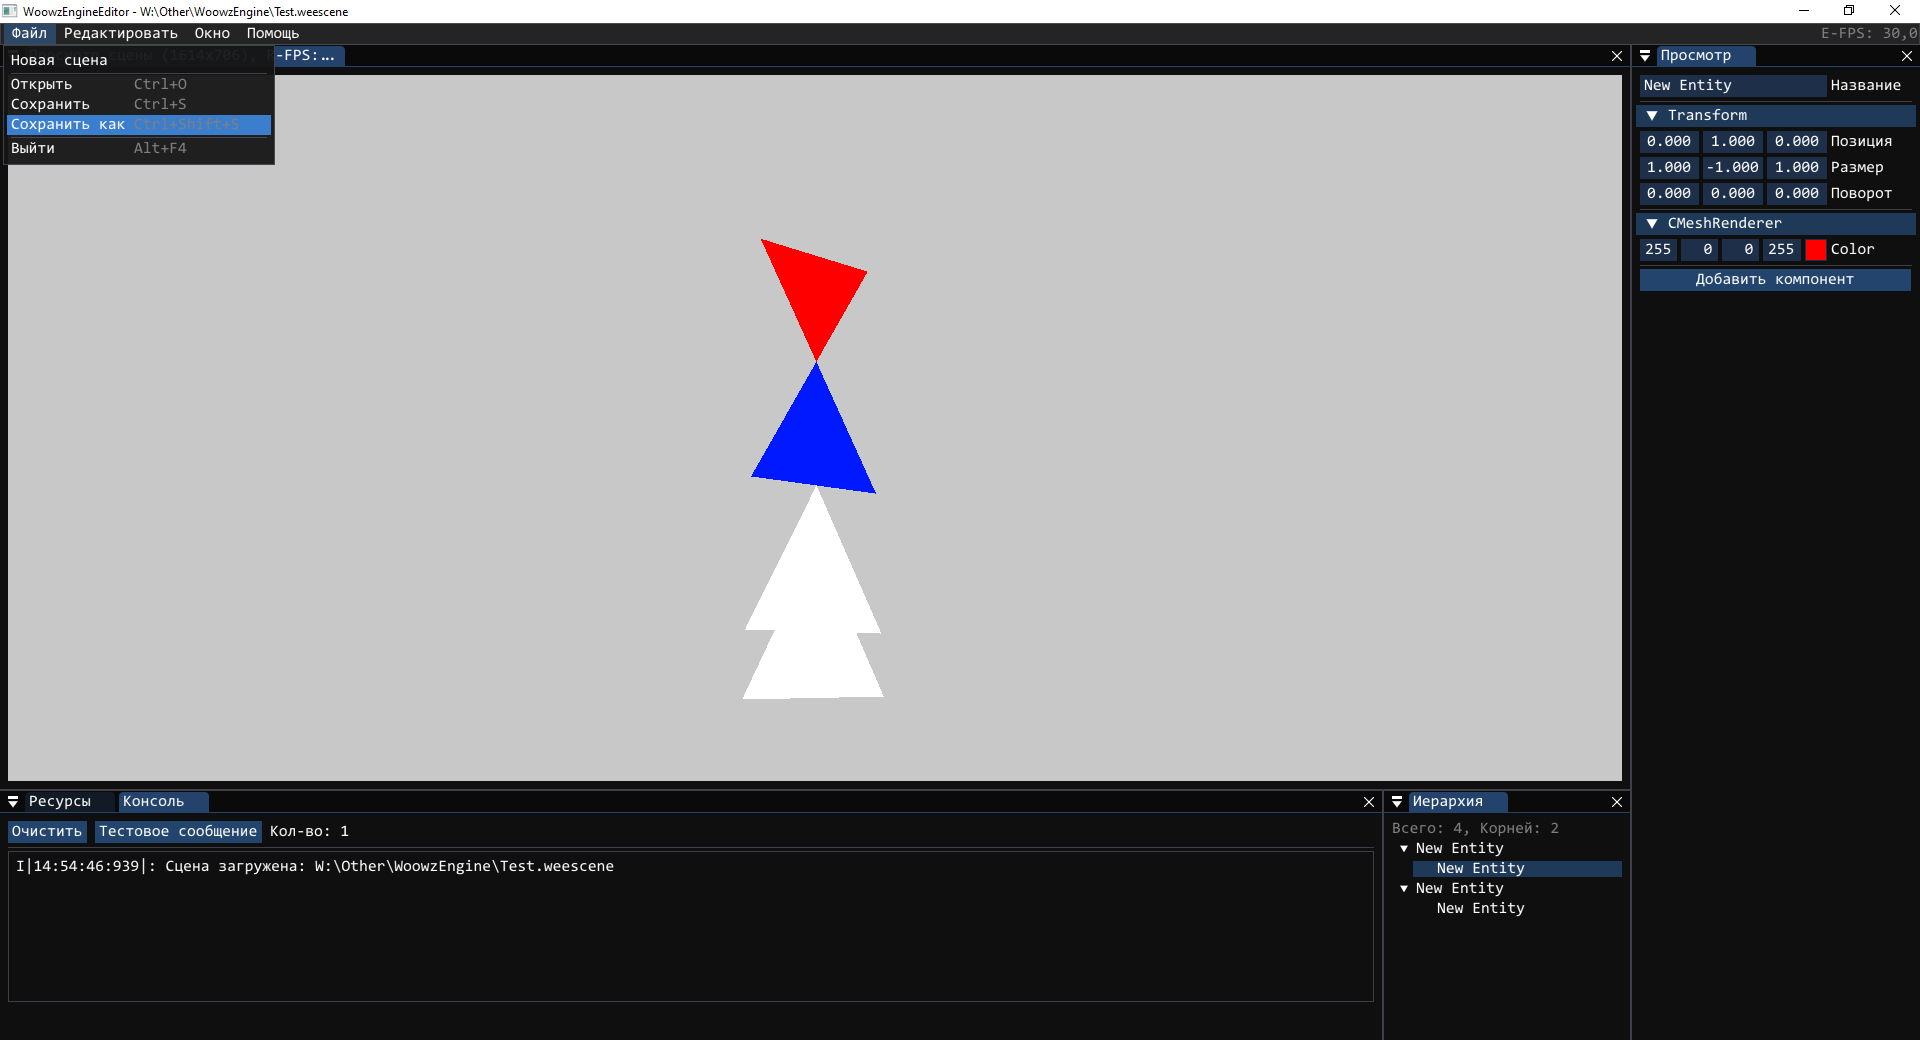
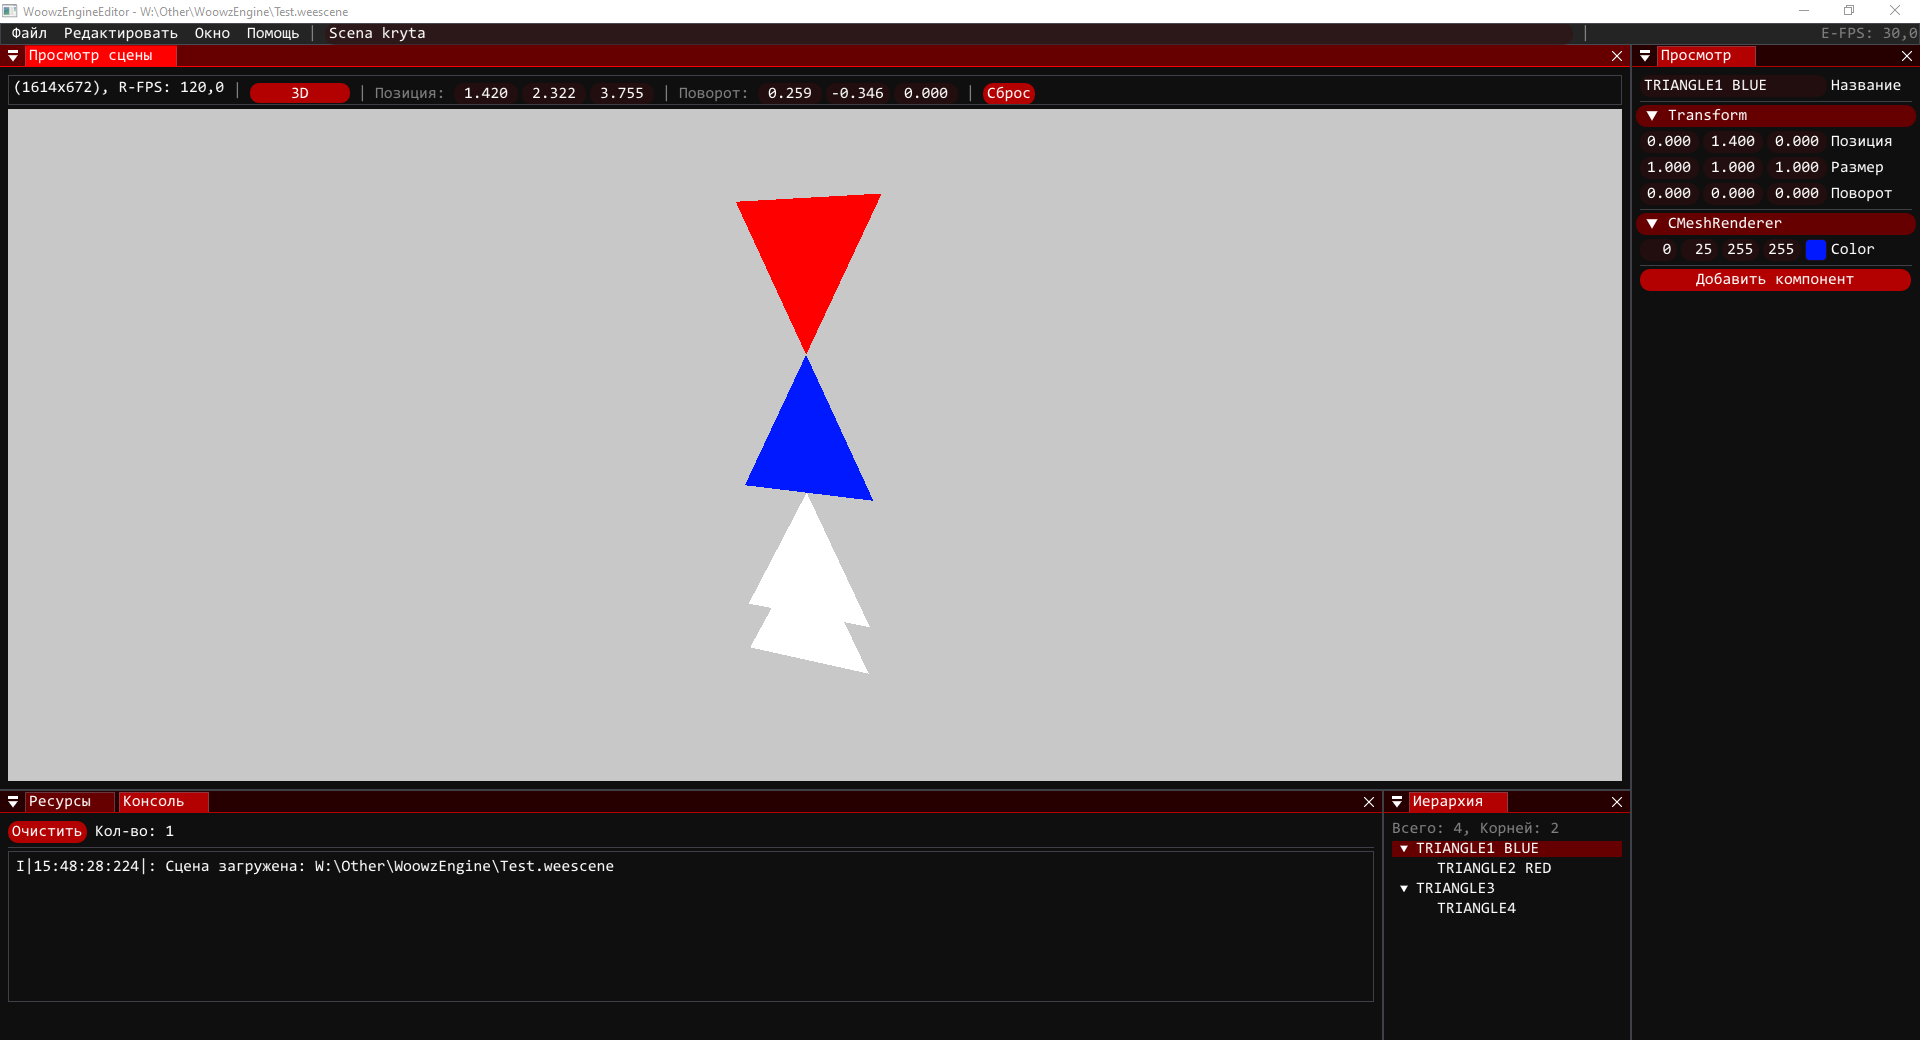
ТИПО крутые стили

diff --git a/WoowzEngine/WoowzEngineEditor/WEE/Interface.cs b/WoowzEngine/WoowzEngineEditor/WEE/Interface.cs
@@ -25,6 +25,56 @@ public static class Interface{
 
         ImGUI.IO.ConfigWindowsMoveFromTitleBarOnly = true;
         
+        ImGuiStylePtr Style = ImGui.GetStyle();
+        RangeAccessor<Vector4> Colors = Style.Colors;
+
+        Vector4 mainRed = new Vector4(0.70f, 0.00f, 0.00f, 1.00f);
+        Vector4 hoverRed = new Vector4(0.85f, 0.10f, 0.10f, 1.00f);
+        Vector4 activeRed = new Vector4(1.00f, 0.00f, 0.00f, 1.00f);
+        Vector4 darkRed = new Vector4(0.40f, 0.00f, 0.00f, 1.00f);
+
+        Colors[(int)ImGuiCol.TitleBg] = new Vector4(0.15f, 0.00f, 0.00f, 1.00f);
+        Colors[(int)ImGuiCol.TitleBgActive] = darkRed;
+        Colors[(int)ImGuiCol.TitleBgCollapsed] = new Vector4(0.00f, 0.00f, 0.00f, 0.51f);
+
+        Colors[(int)ImGuiCol.Button] = mainRed;
+        Colors[(int)ImGuiCol.ButtonHovered] = hoverRed;
+        Colors[(int)ImGuiCol.ButtonActive] = activeRed;
+
+        Colors[(int)ImGuiCol.FrameBg] = new Vector4(0.20f, 0.05f, 0.05f, 0.54f);
+        Colors[(int)ImGuiCol.FrameBgHovered] = new Vector4(0.40f, 0.10f, 0.10f, 0.40f);
+        Colors[(int)ImGuiCol.FrameBgActive] = new Vector4(0.50f, 0.10f, 0.10f, 0.67f);
+
+        Colors[(int)ImGuiCol.Tab] = darkRed;
+        Colors[(int)ImGuiCol.TabHovered] = hoverRed;
+        Colors[(int)ImGuiCol.TabSelected] = activeRed;
+        Colors[(int)ImGuiCol.TabSelectedOverline] = activeRed;
+        Colors[(int)ImGuiCol.TabDimmed] = darkRed;
+        Colors[(int)ImGuiCol.TabDimmedSelected] = mainRed;
+
+        Colors[(int)ImGuiCol.Header] = darkRed;
+        Colors[(int)ImGuiCol.HeaderHovered] = mainRed;
+        Colors[(int)ImGuiCol.HeaderActive] = hoverRed;
+
+        Colors[(int)ImGuiCol.CheckMark] = activeRed;
+        Colors[(int)ImGuiCol.SliderGrab] = mainRed;
+        Colors[(int)ImGuiCol.SliderGrabActive] = hoverRed;
+        Colors[(int)ImGuiCol.SeparatorHovered] = hoverRed;
+        Colors[(int)ImGuiCol.SeparatorActive] = activeRed;
+        Colors[(int)ImGuiCol.ResizeGrip] = darkRed;
+        Colors[(int)ImGuiCol.ResizeGripHovered] = mainRed;
+        Colors[(int)ImGuiCol.ResizeGripActive] = activeRed;
+        Colors[(int)ImGuiCol.DockingPreview] = mainRed;
+        Colors[(int)ImGuiCol.TextSelectedBg] = new Vector4(0.90f, 0.20f, 0.20f, 0.35f);
+
+        Style.WindowRounding = 0;
+        Style.FrameRounding = 12;
+        Style.PopupRounding = 0;
+        Style.GrabRounding = 12;
+        Style.TabRounding = 0;
+
+        Style.TabBorderSize = 1;
+        
         Start_Console();
     }
     
@@ -66,11 +116,11 @@ public static class Interface{
                     OpenScene();
                 }
                 
-                if(ImGui.MenuItem("Сохранить", "Ctrl+S")){
+                if(ImGui.MenuItem("Сохранить", "Ctrl+S", false, ActiveScene != null)){
                     SaveScene();
                 }
                 
-                if(ImGui.MenuItem("Сохранить как", "Ctrl+Shift+S")){
+                if(ImGui.MenuItem("Сохранить как", "Ctrl+Shift+S", false, ActiveScene != null)){
                     SaveSceneAs();
                 }
                 
@@ -105,6 +155,18 @@ public static class Interface{
                 ImGui.EndMenu();
             }
 
+            if(ActiveScene != null){
+                ImGui.SameLine();
+                ImGui.TextDisabled("|");
+                ImGui.SameLine();
+
+                ImGui.InputText("##SceneNameInput", ref ActiveScene.Name, 128);
+                
+                ImGui.SameLine();
+                ImGui.TextDisabled("|");
+                ImGui.SameLine();
+            }
+            
             string MenuText = $"E-FPS: {WEE.Cycle.Engine_DTI.FPS:F1}";
             System.Numerics.Vector2 TextSize = ImGui.CalcTextSize(MenuText);
             ImGui.SameLine(ImGui.GetWindowWidth() - TextSize.X - 10);
@@ -115,6 +177,8 @@ public static class Interface{
     }
 
     private static void SaveSceneAs(){
+        if(ActiveScene == null){ return; }
+        
         DialogResult? Result = Dialog.FileSave(__SceneFileExtension);
 
         if(Result.IsOk){
@@ -134,6 +198,7 @@ public static class Interface{
     }
 
     private static void SaveScene(){
+        if(ActiveScene == null){ return; }
         if(string.IsNullOrEmpty(__SceneFilePath)){
             SaveSceneAs();
         }else{
@@ -185,18 +250,78 @@ public static class Interface{
     public static bool FocusSceneView{ get; private set; }
 
     public static Vector2I SceneViewSize{ get; private set; }
+
+    public static bool Is2DView = false;
     
     private static void Update_SceneView(){
         if(!__ShowSceneView){ return; }
 
-        ImGui.SetNextWindowSize(new System.Numerics.Vector2(800, 600), ImGuiCond.FirstUseEver);
-        ImGui.Begin($"Просмотр сцены ({SceneViewSize.W}x{SceneViewSize.H}), R-FPS: {WEE.Cycle.Render_DTI.FPS:F1}###SceneView", ref __ShowSceneView);
+        ImGui.Begin($"Просмотр сцены###SceneView", ref __ShowSceneView);
 
             FocusSceneView = ImGui.IsWindowFocused(ImGuiFocusedFlags.RootAndChildWindows);
+
+            ImGui.BeginChild("SceneToolbar", new Vector2(0, 30), ImGuiChildFlags.Borders, ImGuiWindowFlags.NoScrollbar);
+            
+                ImGui.SameLine(5);
+                ImGui.SetCursorPosY(5);
+                
+                ImGui.Text($"({SceneViewSize.W}x{SceneViewSize.H}), R-FPS: {WEE.Cycle.Render_DTI.FPS:F1}");
+                
+                ImGui.SameLine();
+                ImGui.TextDisabled("|");
+                ImGui.SameLine();
+                
+                string ModeText = Is2DView ? "2D" : "3D";
+
+                if(ImGui.Button(ModeText, new Vector2(100, 20))){
+                    Is2DView = !Is2DView;
+
+                    if(Is2DView){
+                        WEE.Editor.SceneViewCamera.IsOrthographic = true;
+                    }else{
+                        WEE.Editor.SceneViewCamera.IsOrthographic = false;
+                    }
+                }
+                
+                ImGui.SameLine();
+                ImGui.TextDisabled("|");
+                ImGui.SameLine();
+                
+                ImGui.TextDisabled("Позиция:");
+                ImGui.SameLine();
+                Vector3 CameraPosition = new Vector3(WEE.Editor.SceneViewCamera.Position.X, WEE.Editor.SceneViewCamera.Position.Y, WEE.Editor.SceneViewCamera.Position.Z);
+                ImGui.SetNextItemWidth(200);
+                if(ImGui.DragFloat3("##CamPos", ref CameraPosition, 0.1f)){
+                    WEE.Editor.SceneViewCamera.Position = new Vector3F(CameraPosition.X, CameraPosition.Y, CameraPosition.Z);
+                }
+                
+                ImGui.SameLine();
+                ImGui.TextDisabled("|");
+                ImGui.SameLine();
+                
+                ImGui.TextDisabled("Поворот:");
+                ImGui.SameLine();
+                Vector3 CameraRotation = new Vector3(WEE.Editor.SceneViewCamera.Rotation.X, WEE.Editor.SceneViewCamera.Rotation.Y, WEE.Editor.SceneViewCamera.Rotation.Z);
+                ImGui.SetNextItemWidth(200);
+                if(ImGui.DragFloat3("##CamRos", ref CameraRotation, 0.1f)){
+                    WEE.Editor.SceneViewCamera.Rotation = new Vector3F(CameraRotation.X, CameraRotation.Y, CameraRotation.Z);
+                }
+                
+                ImGui.SameLine();
+                ImGui.TextDisabled("|");
+                ImGui.SameLine();
+
+                if(ImGui.Button("Сброс")){
+                    WEE.Editor.SceneViewCamera.Position = WEE.Editor.SceneViewCamera.Rotation = new Vector3F();
+                }
+                
+            ImGui.EndChild();
             
             System.Numerics.Vector2 __SceneViewport = ImGui.GetContentRegionAvail();
+            __SceneViewport.X = System.Math.Max(1, __SceneViewport.X);
+            __SceneViewport.Y = System.Math.Max(1, __SceneViewport.Y);
             SceneViewSize = new Vector2I((int)__SceneViewport.X, (int)__SceneViewport.Y);
-
+            
             if(ActiveScene != null){
                 ImGui.Image((IntPtr)WEE.Render.SceneFramebuffer.ResultTexture!.ID, __SceneViewport, new System.Numerics.Vector2(0, 1), new System.Numerics.Vector2(1, 0));
             }
@@ -209,7 +334,6 @@ public static class Interface{
     private static void Update_Inspector(){
         if(!__ShowInspector){ return; }
 
-        ImGui.SetNextWindowSize(new System.Numerics.Vector2(200, 300), ImGuiCond.FirstUseEver);
         if(ImGui.Begin("Просмотр###Inspector", ref __ShowInspector)){
             try{
                 if(SelectedEntity == null){
@@ -342,7 +466,6 @@ public static class Interface{
     private static void Update_Hierarchy(){
         if(!__ShowHierarchy){ return; }
 
-        ImGui.SetNextWindowSize(new System.Numerics.Vector2(200, 300), ImGuiCond.FirstUseEver);
         ImGui.Begin("Иерархия###Hierarchy", ref __ShowHierarchy);
 
             if(ActiveScene == null){
@@ -451,7 +574,6 @@ public static class Interface{
     private static void Update_Assets(){
         if(!__ShowAssets){ return; }
 
-        ImGui.SetNextWindowSize(new System.Numerics.Vector2(800, 200), ImGuiCond.FirstUseEver);
         ImGui.Begin("Ресурсы###Assets", ref __ShowAssets);
             ImGui.Text("FILES");
         ImGui.End();
@@ -479,12 +601,9 @@ public static class Interface{
     private static void Update_Console(){
         if(!__ShowConsole){ return; }
 
-        ImGui.SetNextWindowSize(new System.Numerics.Vector2(800, 200), ImGuiCond.FirstUseEver);
         ImGui.Begin("Консоль###Console", ref __ShowConsole);
 
             if(ImGui.Button("Очистить")){ __ConsoleEntries.Clear(); }
-            ImGui.SameLine();
-            if(ImGui.Button("Тестовое сообщение")){ WL.Logger.Debug("Тестовое сообщение"); }
             ImGui.SameLine();
             ImGui.Text($"Кол-во: {__ConsoleEntries.Count}");
             

diff --git a/WoowzEngine/WoowzEngineEditor/WEE/Editor.cs b/WoowzEngine/WoowzEngineEditor/WEE/Editor.cs
@@ -8,15 +8,19 @@ namespace WEE;
 public static class Editor{
     public static Camera SceneViewCamera = new Camera();
 
-    public static float CameraSpeed       = 5f  ;
+    public static float CameraSpeed       = 1   ;
     public static float CameraSensitivity = 0.5f;
     
     public static void UpdateSceneView(){
+        UpdateCamera();
+    }
+
+    public static void UpdateCamera(){
         if(WEE.Interface.FocusSceneView){
             UpdateCameraControls();    
         }
     }
-
+    
     public static void UpdateCameraControls(){
         float DT = (float)WEE.Cycle.Render_DT;
         WLI_Input.Keyboard Keyboard = WEE.Window.MainWindow.Keyboard;
@@ -39,8 +43,12 @@ public static class Editor{
         if(Keyboard.IsKeyDown(Keyboard.Key.Space   )){ MoveDirection += new Vector3F(0, 1, 0); }
         if(Keyboard.IsKeyDown(Keyboard.Key.ControlL)){ MoveDirection -= new Vector3F(0, 1, 0); }
 
+        float CameraSpeed__ = CameraSpeed;
+
+        if(Keyboard.IsKeyDown(Keyboard.Key.ShiftL)){ CameraSpeed__ = 5; }
+
         if(MoveDirection.Length > 0){
-            SceneViewCamera.Position += MoveDirection.Normalized * CameraSpeed * DT;
+            SceneViewCamera.Position += MoveDirection.Normalized * CameraSpeed__ * 5 * DT;
         }
     }
 }

diff --git a/WoowzEngine/WoowzEngine/WEO/Camera.cs b/WoowzEngine/WoowzEngine/WEO/Camera.cs
@@ -11,6 +11,9 @@ public class Camera{
     public float Near   = 0.1f;
     public float Far    = 1000;
 
+    public bool  IsOrthographic = false;
+    public float OrthoSize      = 5;
+    
     // todo, перенести куда нибудь
     public Vector3F Forward{
         get{
@@ -33,5 +36,16 @@ public class Camera{
                                        Matrix4F.CreateRotationZ(Rotation.Z) *
                                        Matrix4F.CreateTranslation(Position.Negative);
 
-    public Matrix4F GetProjectionMatrix() => Matrix4F.CreatePerspective(FOV * (float)(System.Math.PI / 180 /* todo */), Aspect, Near, Far);
+    public Matrix4F GetProjectionMatrix(){
+        if(IsOrthographic){
+            float R = OrthoSize * Aspect;
+            float L = -R;
+            float T = OrthoSize;
+            float B = -T;
+            
+            return Matrix4F.CreateOrtho(L, R, B, T, Near, Far);
+        }else{
+            return Matrix4F.CreatePerspective(FOV * (float)(System.Math.PI / 180 /* todo */), Aspect, Near, Far);
+        }
+    }
 }
